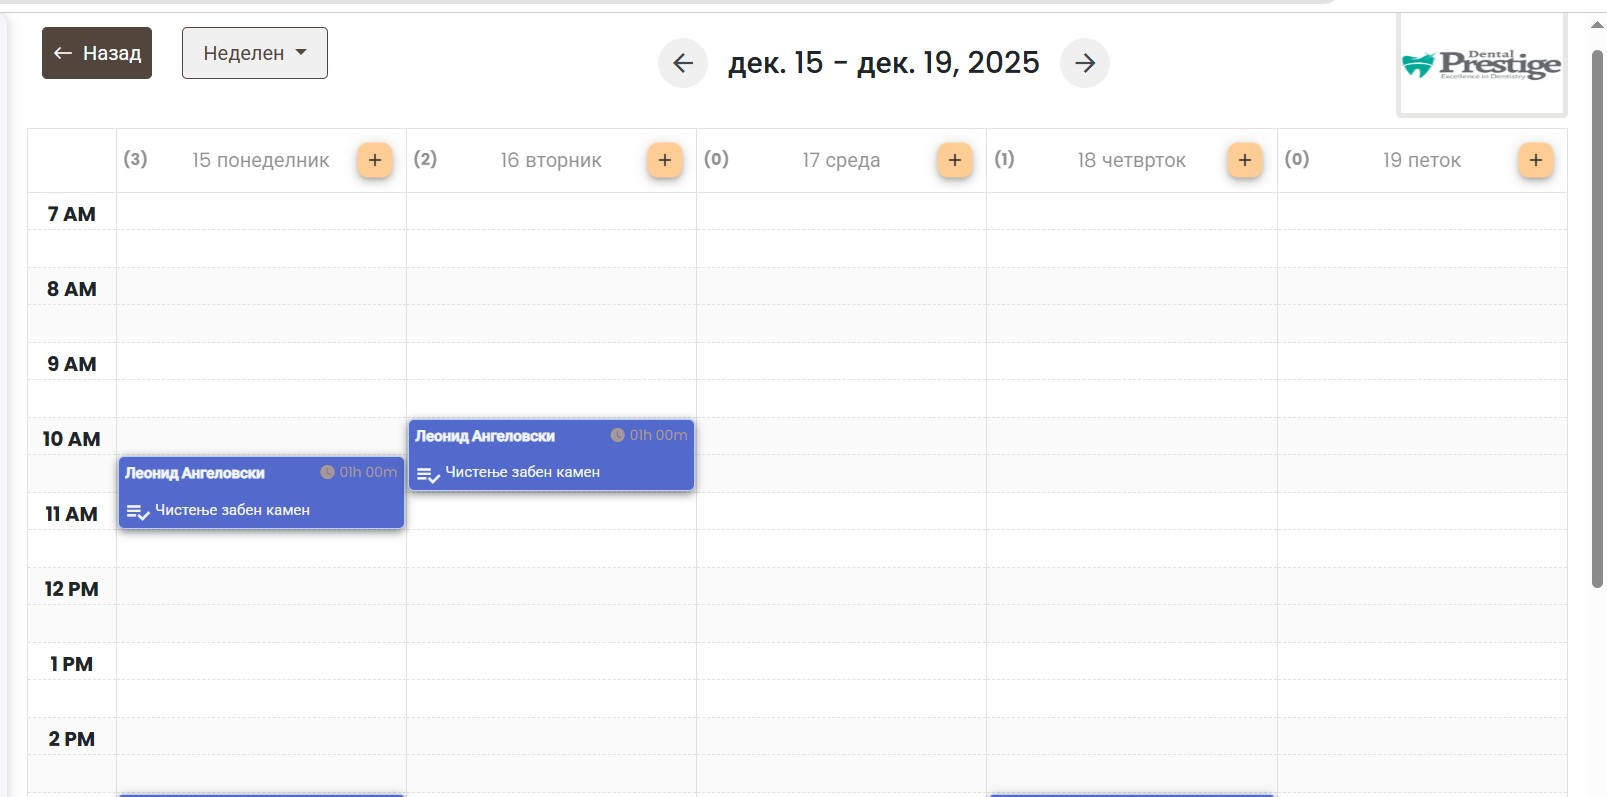
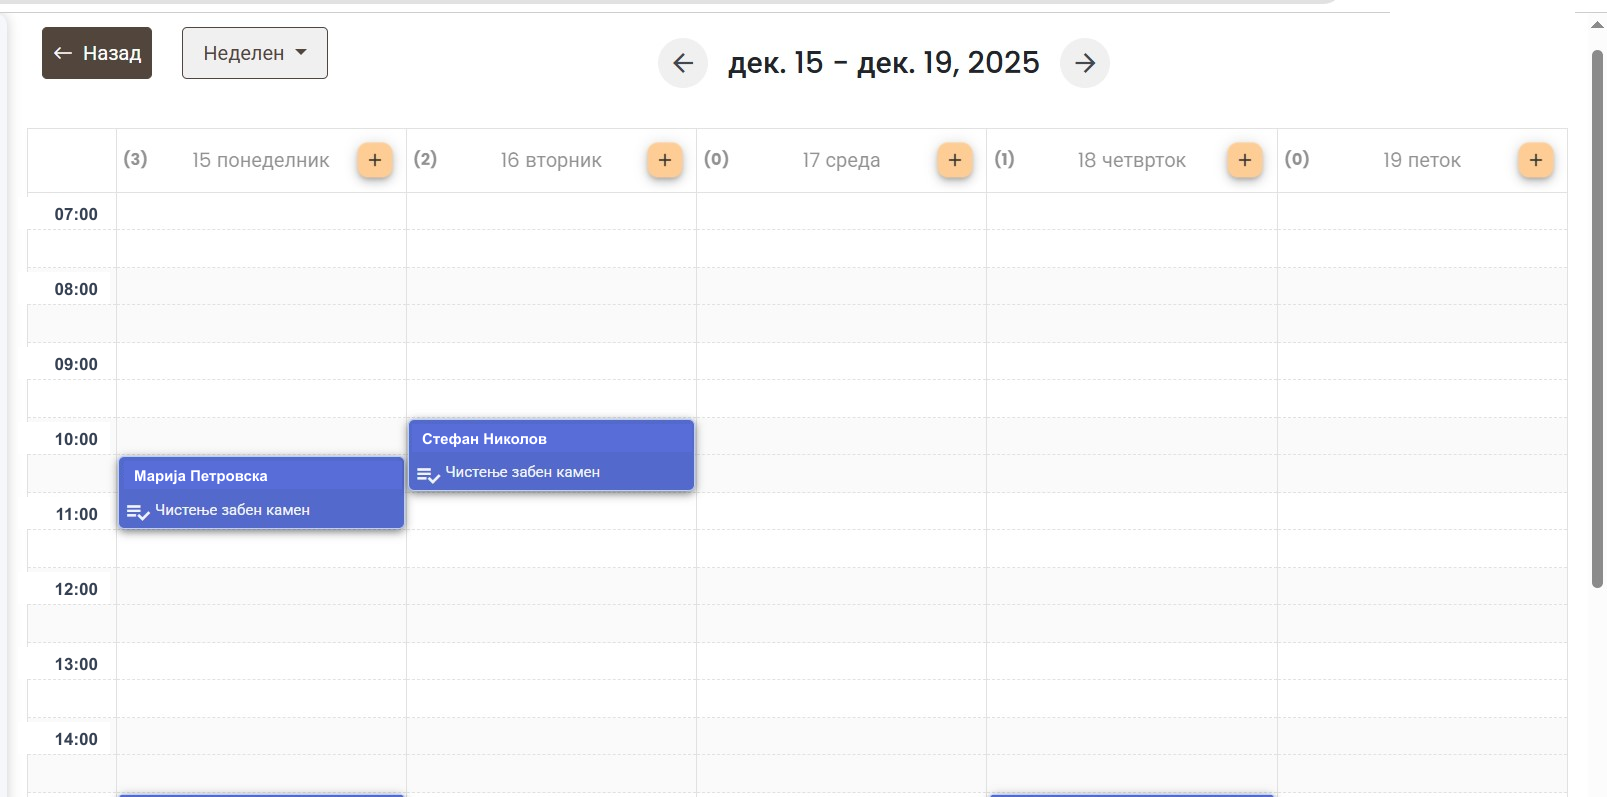
Add audience badge, founder contact note, sanitized product screenshot
Screenshot: generic appointment names, customer logo removed, 24h hour labels.

diff --git a/src/app/components/Hero.tsx b/src/app/components/Hero.tsx
@@ -7,9 +7,14 @@ export function Hero() {
       <div className="mx-auto grid max-w-6xl items-center gap-10 lg:grid-cols-2 lg:gap-14">
         {/* Copy + form */}
         <div>
-          <span className="mb-4 inline-block rounded-full bg-secondary px-3 py-1 text-sm text-secondary-foreground">
-            30 дена бесплатно
-          </span>
+          <div className="mb-4 flex flex-wrap gap-2">
+            <span className="rounded-full bg-primary px-3 py-1 text-sm text-primary-foreground">
+              За ординации и физиотерапевти
+            </span>
+            <span className="rounded-full bg-secondary px-3 py-1 text-sm text-secondary-foreground">
+              30 дена бесплатно
+            </span>
+          </div>
           <h1 className="text-[2rem] leading-[1.12] md:text-5xl">
             Празен стол значи изгубен час и изгубени пари.
           </h1>

diff --git a/src/app/components/LeadForm.tsx b/src/app/components/LeadForm.tsx
@@ -109,9 +109,19 @@ export function LeadForm() {
         </p>
       )}
 
-      <p className="text-sm text-muted-foreground">
-        Без картичка. Без инсталација. Ние ве контактираме.
-      </p>
+      {/* TODO: replace the initials avatar with a real founder photo */}
+      <div className="flex items-center gap-3 pt-1">
+        <div
+          aria-hidden="true"
+          className="flex h-10 w-10 shrink-0 items-center justify-center rounded-full bg-primary font-[Manrope] font-extrabold text-primary-foreground"
+        >
+          Л
+        </div>
+        <p className="text-sm text-muted-foreground">
+          Ќе ви се јави Леонид, основачот, во рок од 24 часа.
+          <span className="block">Без картичка. Без инсталација.</span>
+        </p>
+      </div>
     </form>
   );
 }
